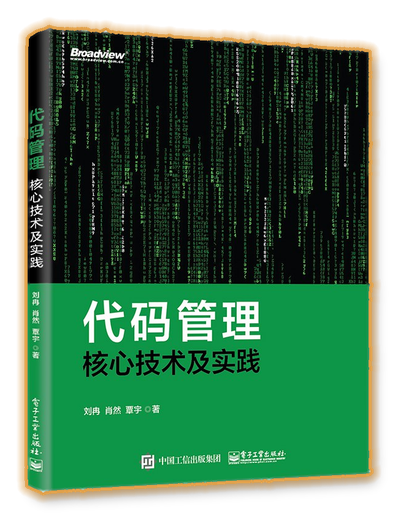
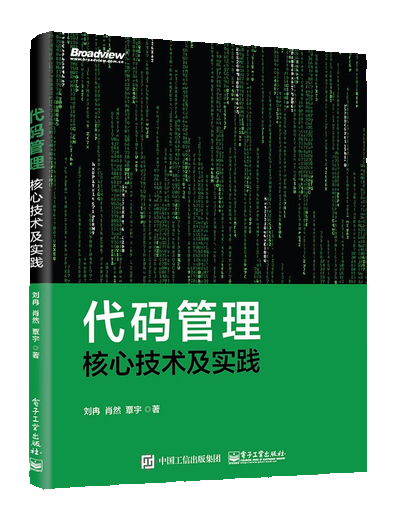
clean book covers, add glow hover and dune parallax
Strip baked-in ochre fringe from bookshelf PNGs, keep cover whites, and move the sand halo plus scale-only hover into CSS. Zoom the dune backdrop out and add a reduced-motion-aware scroll parallax.

Changed region(s): [[0.0302, 0.0308, 0.9648, 0.9846]]

diff --git a/assets/css/custom.css b/assets/css/custom.css
@@ -10,7 +10,6 @@
   --muted-dim: #5c574f;
   --line: #2a2a2a;
   --code-bg: #1a1a1a;
-  --ochre-wash: rgba(196, 165, 116, 0.12);
   --bg-image: url("/images/bg/dune-bg-composed.jpg");
 }
 
@@ -21,7 +20,7 @@ html,
   color-scheme: dark;
 }
 
-/* Static dune backdrop. Fixed layer is a still, not parallax. */
+/* Static dune backdrop. Subtle scroll parallax via --bg-parallax. */
 html {
   background-color: var(--void);
 }
@@ -29,7 +28,7 @@ html {
 html::before {
   content: "";
   position: fixed;
-  inset: 0;
+  inset: -18vh 0;
   z-index: -2;
   pointer-events: none;
   background-color: var(--void);
@@ -37,7 +36,9 @@ html::before {
   background-repeat: no-repeat;
   background-attachment: scroll;
   background-position: left 8% bottom 4%;
-  background-size: 118% auto;
+  background-size: 82% auto;
+  transform: translate3d(0, var(--bg-parallax, 0px), 0);
+  will-change: transform;
 }
 
 html::after {
@@ -344,8 +345,8 @@ html.theme--dark .post__content a:hover {
   text-align: center;
   text-decoration: none;
   padding: 0.7rem 0.45rem 0.85rem;
-  border: 1px solid transparent;
-  border-radius: 0.4rem;
+  border: 0;
+  background: none;
   transform: none;
 }
 
@@ -356,10 +357,15 @@ html.theme--dark .post__content a:hover {
 
 .bookshelf__item:hover,
 .bookshelf__item:focus,
+.bookshelf__item:focus-visible,
+.bookshelf__item:active,
 .series-grid__item:hover,
-.series-grid__item:focus {
-  background-color: var(--ochre-wash);
-  border-color: rgba(196, 165, 116, 0.7);
+.series-grid__item:focus,
+.series-grid__item:focus-visible,
+.series-grid__item:active {
+  background: none;
+  border: 0;
+  outline: none;
   transform: none;
 }
 
@@ -372,6 +378,7 @@ html.theme--dark .post__content a:hover {
 
 .bookshelf__cover,
 .series-grid__cover {
+  position: relative;
   display: flex;
   align-items: center;
   justify-content: center;
@@ -382,6 +389,28 @@ html.theme--dark .post__content a:hover {
 
 .bookshelf__cover {
   aspect-ratio: 1 / 1;
+  overflow: visible;
+}
+
+.bookshelf__cover::before {
+  content: "";
+  position: absolute;
+  z-index: 0;
+  left: 50%;
+  top: 54%;
+  width: 92%;
+  height: 82%;
+  pointer-events: none;
+  background: radial-gradient(
+    ellipse at 50% 50%,
+    rgba(196, 165, 116, 0.5) 0%,
+    rgba(196, 165, 116, 0.26) 36%,
+    rgba(196, 165, 116, 0.08) 58%,
+    rgba(196, 165, 116, 0) 74%
+  );
+  transform: translate(-50%, -50%);
+  transform-origin: center center;
+  transition: transform 0.22s ease;
 }
 
 .series-grid__cover {
@@ -392,6 +421,8 @@ html.theme--dark .post__content a:hover {
 
 .post__content .bookshelf__cover img,
 .post__content .series-grid__cover img {
+  position: relative;
+  z-index: 1;
   display: block;
   width: 100%;
   height: 100%;
@@ -399,10 +430,30 @@ html.theme--dark .post__content a:hover {
   object-fit: contain;
   pointer-events: none;
   transform: none;
+  transform-origin: center center;
+  transition: transform 0.22s ease;
 }
 
 .post__content .series-grid__cover img {
   object-fit: cover;
+}
+
+.bookshelf__item:hover .bookshelf__cover img,
+.bookshelf__item:focus .bookshelf__cover img,
+.bookshelf__item:focus-visible .bookshelf__cover img,
+.bookshelf__item:active .bookshelf__cover img,
+.series-grid__item:hover .series-grid__cover img,
+.series-grid__item:focus .series-grid__cover img,
+.series-grid__item:focus-visible .series-grid__cover img,
+.series-grid__item:active .series-grid__cover img {
+  transform: scale(1.07);
+}
+
+.bookshelf__item:hover .bookshelf__cover::before,
+.bookshelf__item:focus .bookshelf__cover::before,
+.bookshelf__item:focus-visible .bookshelf__cover::before,
+.bookshelf__item:active .bookshelf__cover::before {
+  transform: translate(-50%, -50%) scale(1.07);
 }
 
 .bookshelf__title,
@@ -427,10 +478,23 @@ html.theme--dark .post__content a:hover {
   background-color: #d8d2c8 !important;
 }
 
+@media (prefers-reduced-motion: reduce) {
+  html::before {
+    transform: none;
+    will-change: auto;
+  }
+
+  .bookshelf__cover::before,
+  .post__content .bookshelf__cover img,
+  .post__content .series-grid__cover img {
+    transition: none;
+  }
+}
+
 @media screen and (max-width: 960px) {
   html::before {
-    background-size: cover;
-    background-position: left center;
+    background-size: 85% auto;
+    background-position: left 4% bottom 8%;
   }
 
   .wrapper__main {

diff --git a/assets/js/parallax.js b/assets/js/parallax.js
@@ -1,0 +1,32 @@
+(() => {
+  const root = document.documentElement;
+  const reduce = window.matchMedia("(prefers-reduced-motion: reduce)");
+  const factor = 0.16;
+  let ticking = false;
+
+  const apply = () => {
+    ticking = false;
+    if (reduce.matches) {
+      root.style.setProperty("--bg-parallax", "0px");
+      return;
+    }
+    const y = window.scrollY || 0;
+    root.style.setProperty("--bg-parallax", `${(-y * factor).toFixed(1)}px`);
+  };
+
+  const onScroll = () => {
+    if (ticking) {
+      return;
+    }
+    ticking = true;
+    window.requestAnimationFrame(apply);
+  };
+
+  window.addEventListener("scroll", onScroll, { passive: true });
+  if (typeof reduce.addEventListener === "function") {
+    reduce.addEventListener("change", apply);
+  } else if (typeof reduce.addListener === "function") {
+    reduce.addListener(apply);
+  }
+  apply();
+})();
